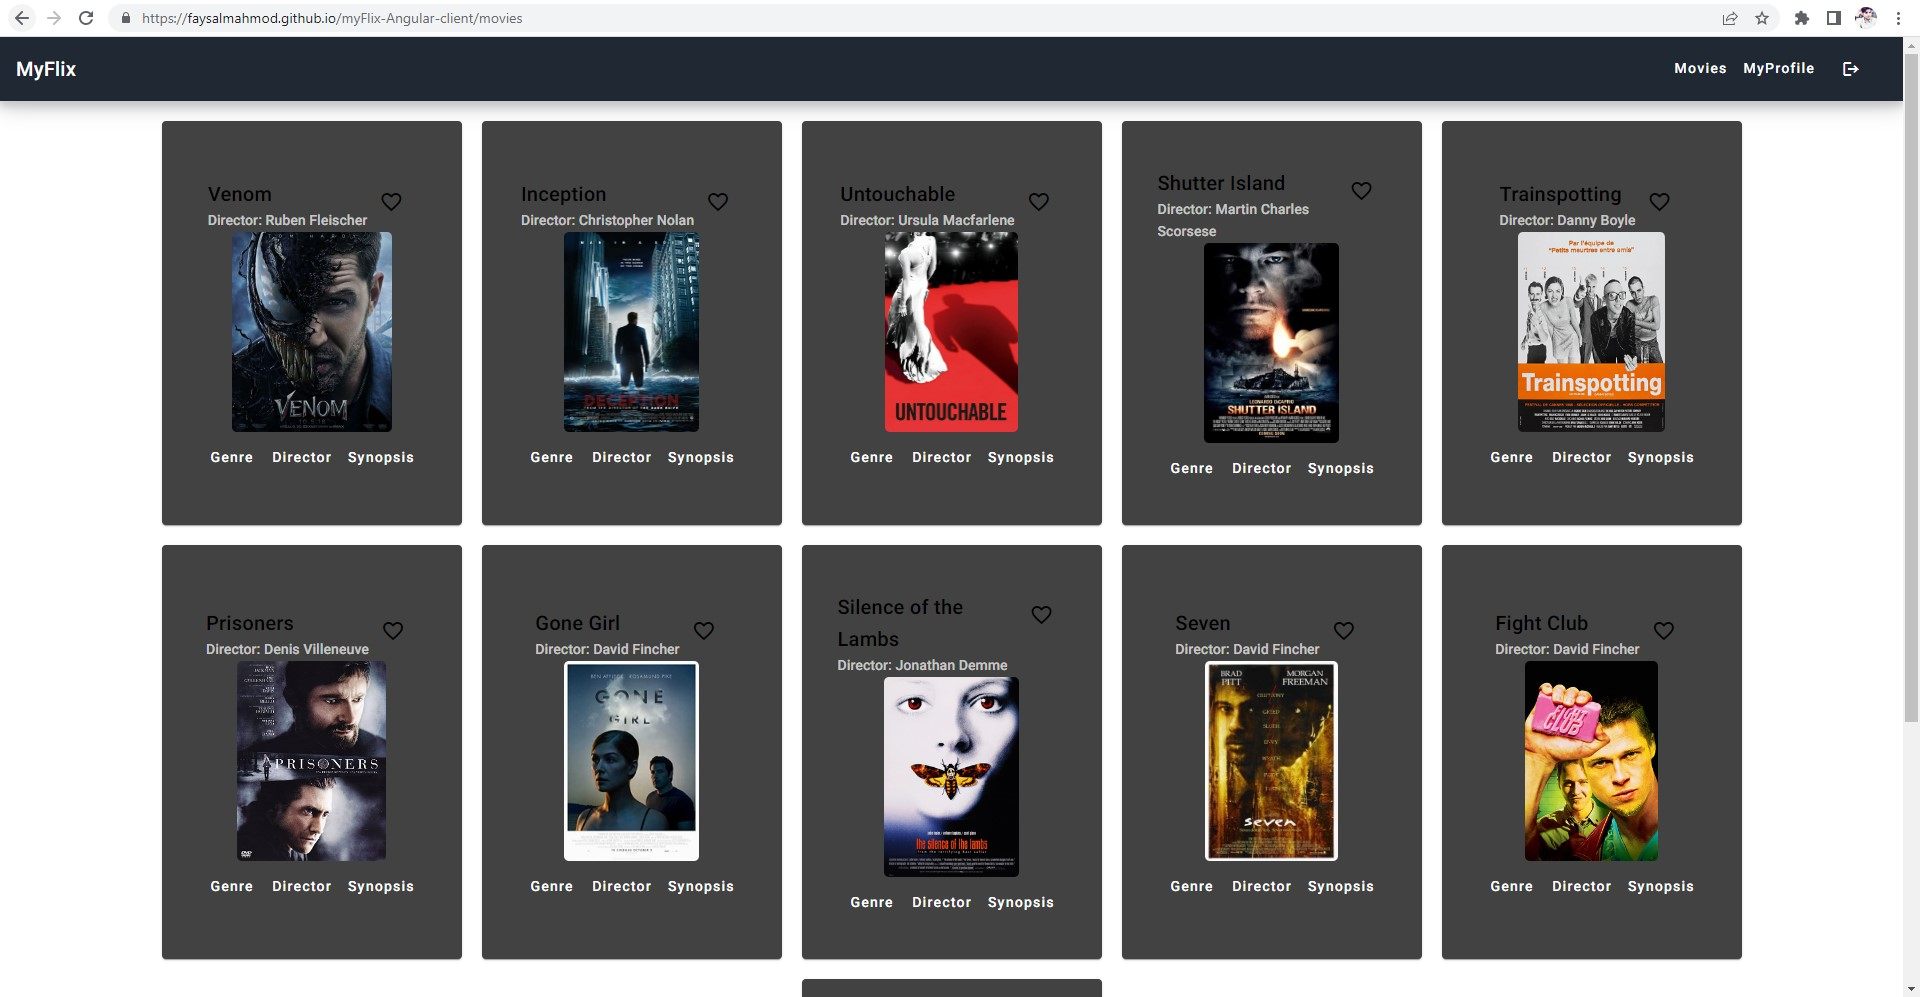
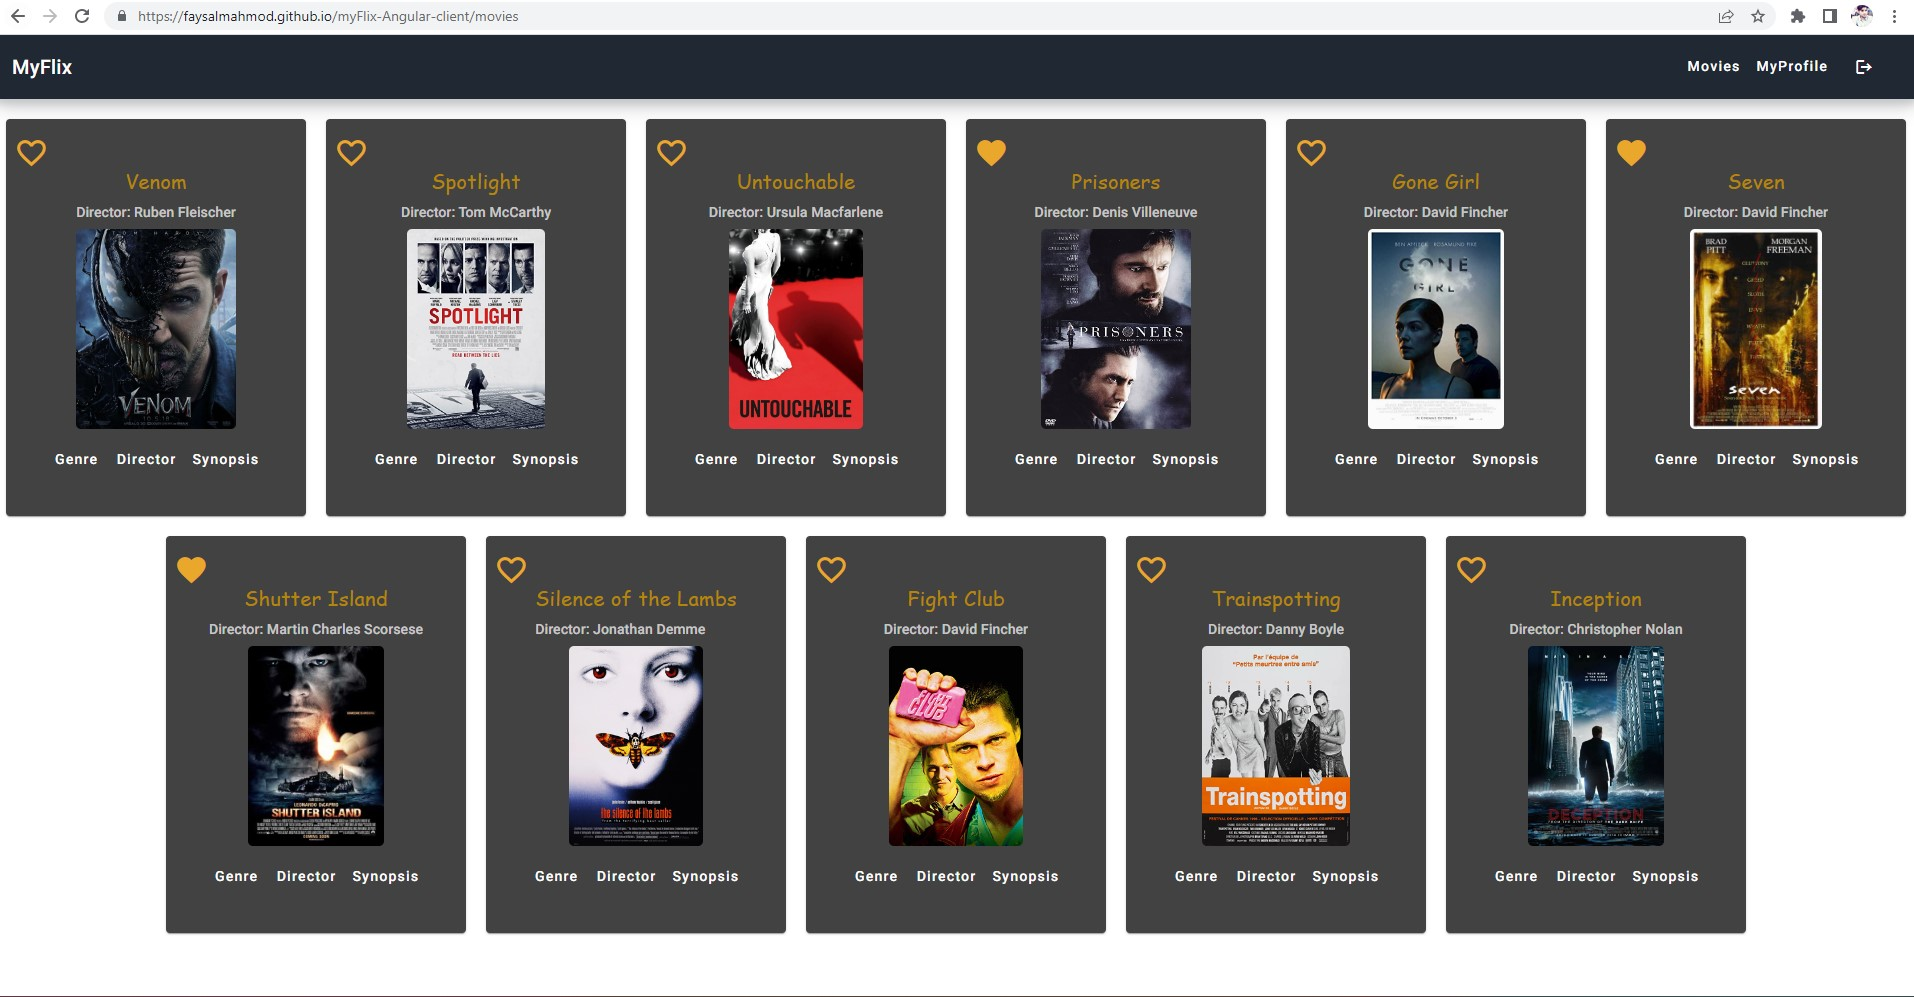
style updates

diff --git a/src/app/movie-card/movie-card.component.ts b/src/app/movie-card/movie-card.component.ts
@@ -21,24 +21,15 @@ export class MovieCardComponent
 
   ngOnInit(): void {
     this.getMovies();
-    this.getUser();
-    this.getFavMovies();
+    this.getUser();   
   }
+
   /**
    * gets movies from API call and returns array if movies
    * @returns array of movie objects
    */
 
-  getFavMovies(): void {
-    const userName = this.userService.getName();
-    if (!userName) {
-      throw new Error('Unknown User in MovieCardComponent');
-    }
-    this.fetchApiDataService.loadUser(userName).subscribe((res: any)=>{
-      this.favouriteMovie=res.FavoriteMovies;
-      return this.favouriteMovie;
-    })
-  }
+
   getMovies(): void {
     this.fetchApiDataService.loadAllMovies().subscribe((resp: IMovie[]) => {
       this.movies = resp;
@@ -147,7 +138,7 @@ export class MovieCardComponent
       this.snackBar.open('Movie has been added to your favorites!', 'OK', {
         duration: 2000,
       });
-      this.getUser()
+      this.ngOnInit();
     });
   }
 

diff --git a/src/app/user-registration-form/user-registration-form.component.html b/src/app/user-registration-form/user-registration-form.component.html
@@ -1,6 +1,7 @@
+<div class="form">
 <mat-card class="form mat-elevation-z0">
     <mat-card-header class="form__header">
-      <mat-card-title class="form__title">Sign Up!</mat-card-title>
+      <mat-card-title class="form__title form-input">Sign Up!</mat-card-title>
     </mat-card-header>
     <mat-card-content>
       <form>
@@ -11,6 +12,7 @@
             placeholder="Username"
             type="text"
             name="Name"
+            class=""
             [required]="true"
           >
         </mat-form-field>
@@ -50,8 +52,10 @@
         mat-raised-button
         (click)="registerUser()"
         color="primary"
+        class="btn"
       >
         Sign Up
       </button>
     </mat-card-actions>
   </mat-card>
+</div>

diff --git a/src/app/user-login-form/user-login-form.component.html b/src/app/user-login-form/user-login-form.component.html
@@ -1,6 +1,7 @@
+<div class="form">
 <mat-card class="form mat-elevation-z0">
   <mat-card-header class="form__header">
-    <mat-card-title class="form__title">Sign In!</mat-card-title>
+    <mat-card-title class="form__title form-input">Sign In!</mat-card-title>
   </mat-card-header>
   <mat-card-content>
     <form>
@@ -13,8 +14,9 @@
     </form>
   </mat-card-content>
   <mat-card-actions>
-    <button mat-raised-button (click)="loginUser()" color="primary" class="button">
+    <button mat-raised-button (click)="loginUser()" color="primary" class="button btn">
       Sign In
     </button>
   </mat-card-actions>
 </mat-card>
+</div>

diff --git a/src/app/movie-card/movie-card.component.html b/src/app/movie-card/movie-card.component.html
@@ -16,8 +16,8 @@
       <mat-card-subtitle>
         Director: {{movie.Director.Name}}
       </mat-card-subtitle>
-
     </mat-card-header>
+    
     <img class="movie-card__image" src="{{movie.ImageURL}}" alt={{movie.Title}} />
     <mat-card-actions class="button-wrapper-justify">
       <button class="link-button" mat-button (click)="openGenreDialog(movie.Genre.Name, movie.Genre.Description)">

diff --git a/src/app/user-registration-form/user-registration-form.component.scss b/src/app/user-registration-form/user-registration-form.component.scss
@@ -1,0 +1,21 @@
+.form {
+    color: #D3C3C0;
+    font-family: 'Helvetica Neue', sans-serif;
+    text-align: center;
+    align-content: center;
+}
+
+
+.form-input {
+
+    font-family: 'Helvetica Neue', sans-serif;
+    margin-left: 90px;
+    margin-bottom: 10px;
+}
+
+.btn {
+
+    margin-left: 90px;
+    margin-bottom: 10px;
+}
+

diff --git a/src/app/user-login-form/user-login-form.component.scss b/src/app/user-login-form/user-login-form.component.scss
@@ -1,0 +1,20 @@
+.form {
+    color: #D3C3C0;
+    font-family: 'Helvetica Neue', sans-serif;
+    text-align: center;
+    align-content: center;
+}
+
+
+.form-input {
+
+    font-family: 'Helvetica Neue', sans-serif;
+    margin-left: 90px;
+    margin-bottom: 10px;
+}
+
+.btn {
+
+    margin-left: 90px;
+    margin-bottom: 10px;
+}
